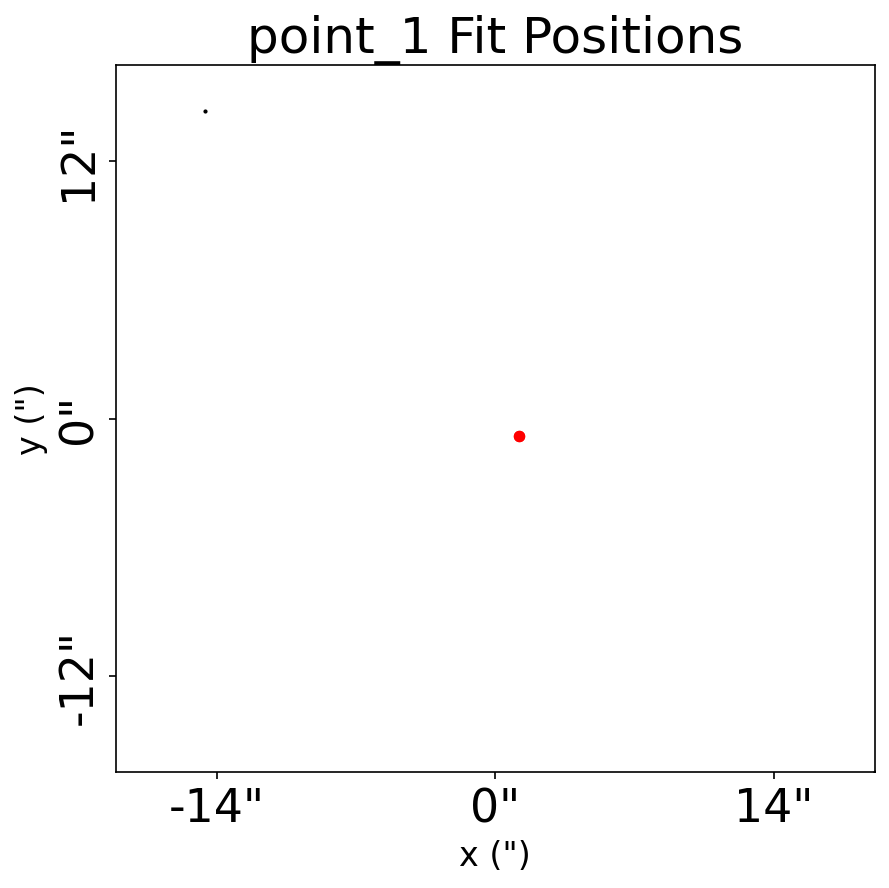
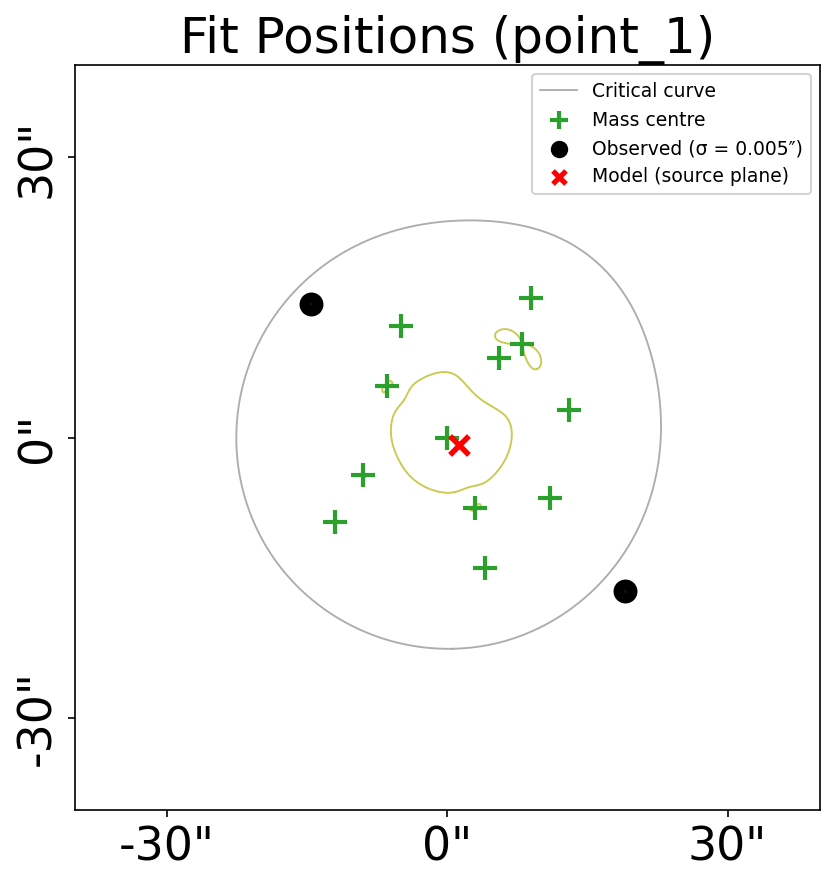
render: point positions panels — solver extent, markers, noise, residuals, curves (PyAutoLens#786)
Re-render point_source_image_chi_squared, point_source_source_chi_squared
and cluster against PyAutoLens#786. The cluster producer passes the solver
to dataset_point and lets fit_point compute the critical curves the
"Fit Positions" panel now draws (~2 min per dataset).

diff --git a/scripts/cluster/visualization.py b/scripts/cluster/visualization.py
@@ -15,12 +15,12 @@ Output tree (wiped at the start of every run)::
         point_0/dataset.png, point_0/fit.png   <- PlotterPoint.dataset_point, PlotterPoint.fit_point
         point_1/dataset.png, point_1/fit.png
 
-**Plotter, not Visualizer.** ``VisualizerPoint.visualize`` computes the tracer's critical curves
-and caustics on a 100x100 grid over the dataset extent before plotting, which for this 15-galaxy
-multi-plane lens costs ~100 s per run (measured 35 s + 67 s) — and the point-source fit subplot
-does not draw those curves. So this producer calls the same two ``PlotterPoint`` methods the
-visualizer calls (``dataset_point`` in ``visualize_before_fit``; ``fit_point(quick_update=True)``
-in ``visualize``) with empty curve lists, writing byte-for-byte the figures the visualizer would.
+**Plotter, not Visualizer.** ``VisualizerPoint.visualize`` also renders the tracer and galaxy
+figures this repo does not track, so this producer calls the same two ``PlotterPoint`` methods the
+visualizer calls (``dataset_point(solver=...)`` in ``visualize_before_fit``;
+``fit_point(quick_update=True)`` in ``visualize``), writing the figures the visualizer would. The
+"Fit Positions" panel draws the tracer's critical curves, which ``fit_point`` computes on a 100x100
+grid covering the solver grid: for this 15-galaxy multi-plane lens that costs ~2 min per dataset.
 
 The point plotter writes ``dataset_point.png`` (renamed to ``dataset.png``); every other file
 the visualizer writes is deleted.
@@ -120,14 +120,10 @@ for i in range(len(tm.SOURCE_REDSHIFTS)):
 
     t0 = time.perf_counter()
     plotter = PlotterPoint(image_path=paths.image_path, title_prefix=analysis.title_prefix)
-    plotter.dataset_point(dataset=analysis.dataset)
+    plotter.dataset_point(dataset=analysis.dataset, solver=analysis.solver)
     plotter.fit_point(
         fit=analysis.fit_for_visualization(instance=instance),
         quick_update=True,
-        image_plane_lines=[],
-        image_plane_line_colors=[],
-        source_plane_lines=[],
-        source_plane_line_colors=[],
     )
     keep_dataset_and_fit(point_path, dataset_png="dataset_point.png")
     print(f"visualize [{dataset.name}]: {time.perf_counter() - t0:.1f}s")

diff --git a/AGENTS.md b/AGENTS.md
@@ -70,9 +70,9 @@ everything else. Producers with several sub-datasets write one pair per sub-fold
 (`multi_dataset` per band, the datacube per channel, `cluster` per point-source plane). Many
 of these figures are the galaxy-scale plots and look poor on point / cluster / weak data —
 bespoke figures are a follow-up through the Eyes dashboard. `cluster` calls the two
-`PlotterPoint` methods directly instead of `VisualizerPoint`: the visualizer's critical-curve
-pre-pass costs ~100 s on the 15-galaxy multi-plane lens and the point fit subplot never draws
-the curves (the PNGs are byte-identical).
+`PlotterPoint` methods directly instead of `VisualizerPoint`, skipping the untracked tracer and
+galaxy figures; the "Fit Positions" panel still draws the critical curves, which cost ~2 min per
+dataset on the 15-galaxy multi-plane lens (the PNGs match the visualizer's).
 
 **What is tracked.** PNG figures under `scripts/<domain>/images/**`, `GALLERY.md` and
 `gallery/viz_manifest.yaml`. The FITS /
